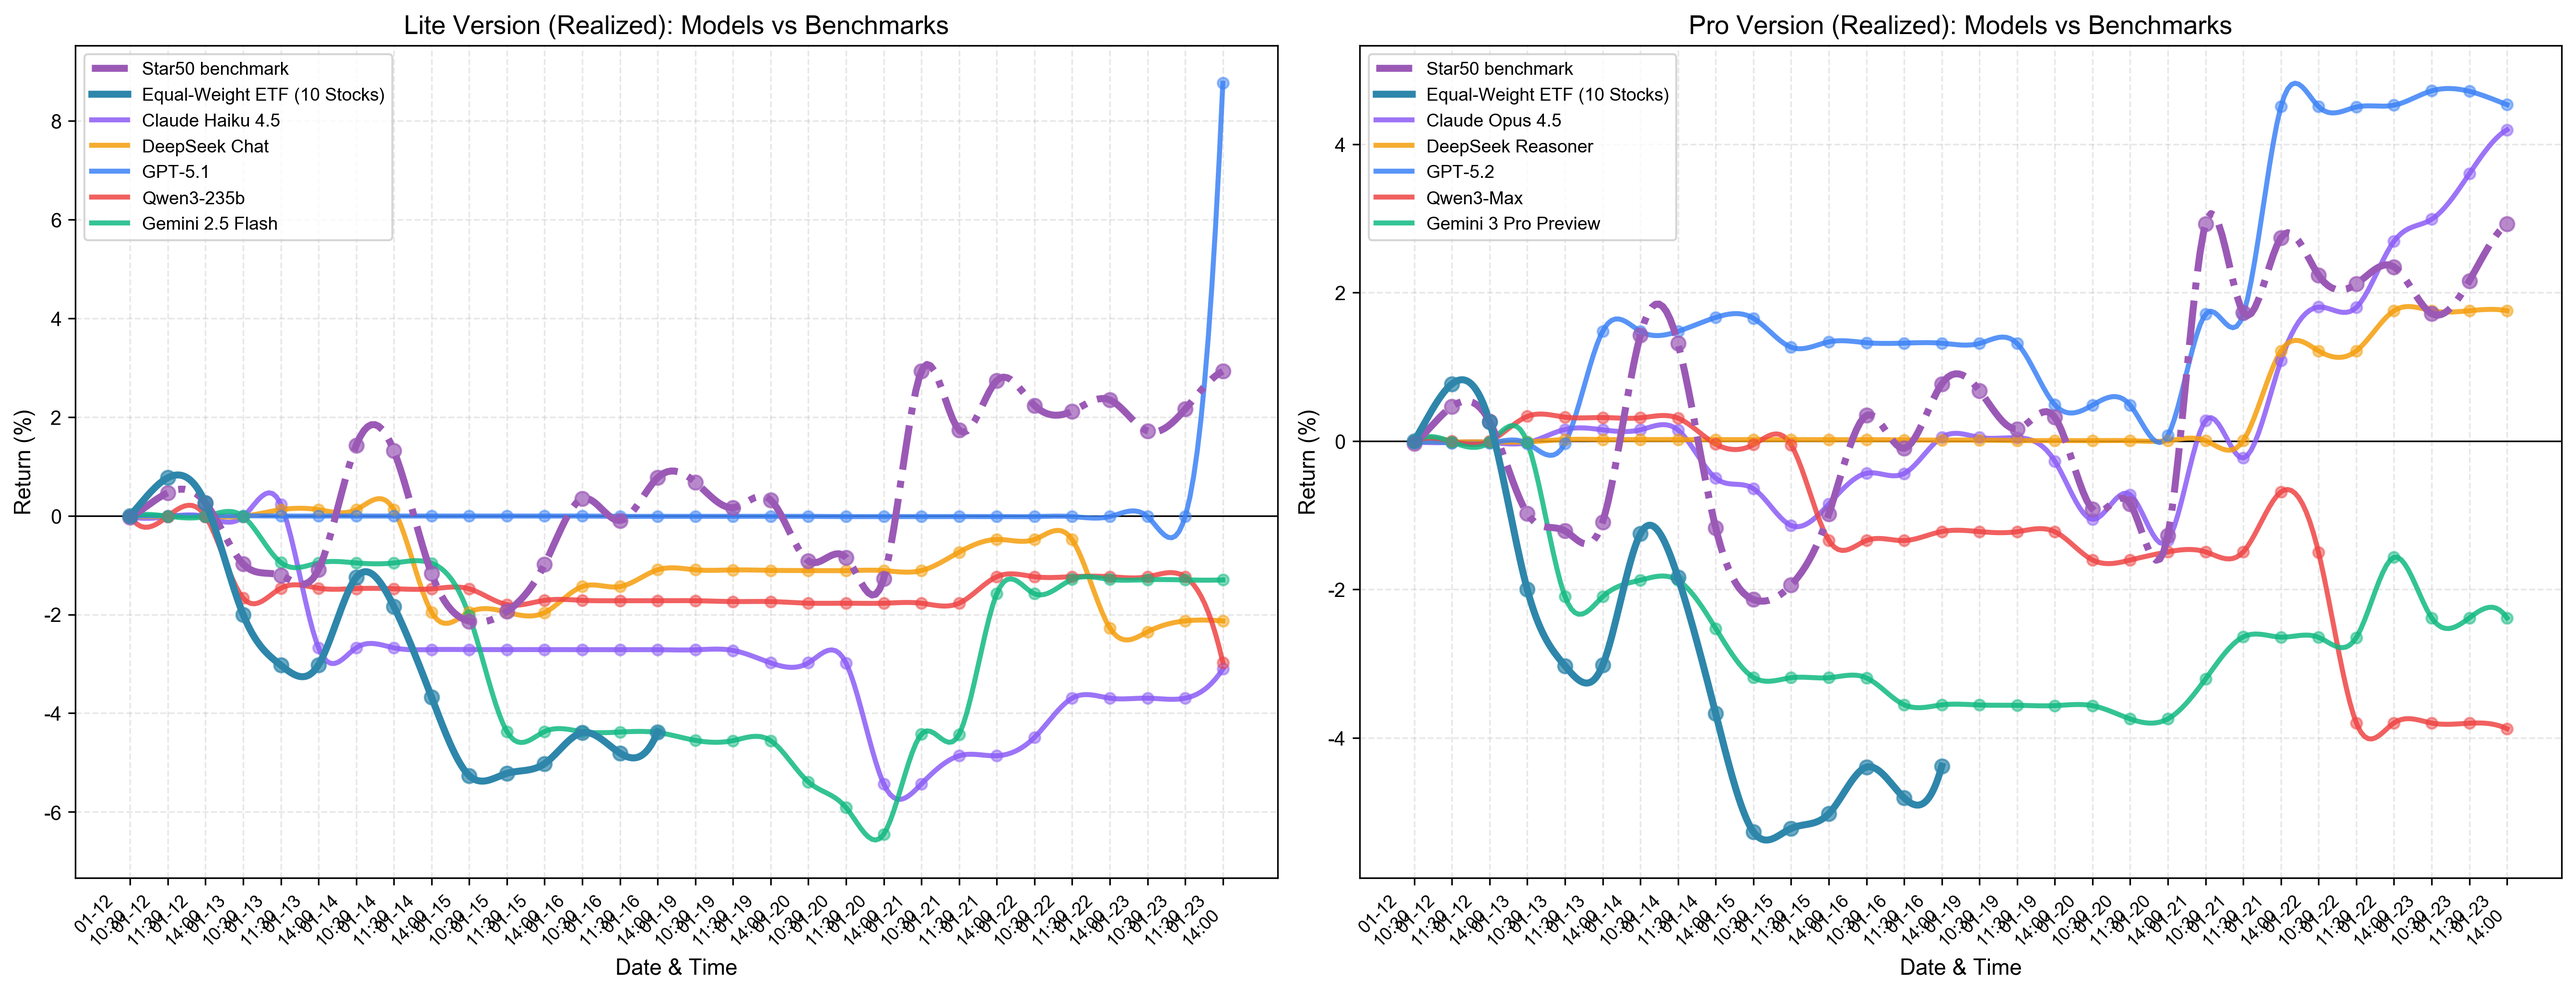
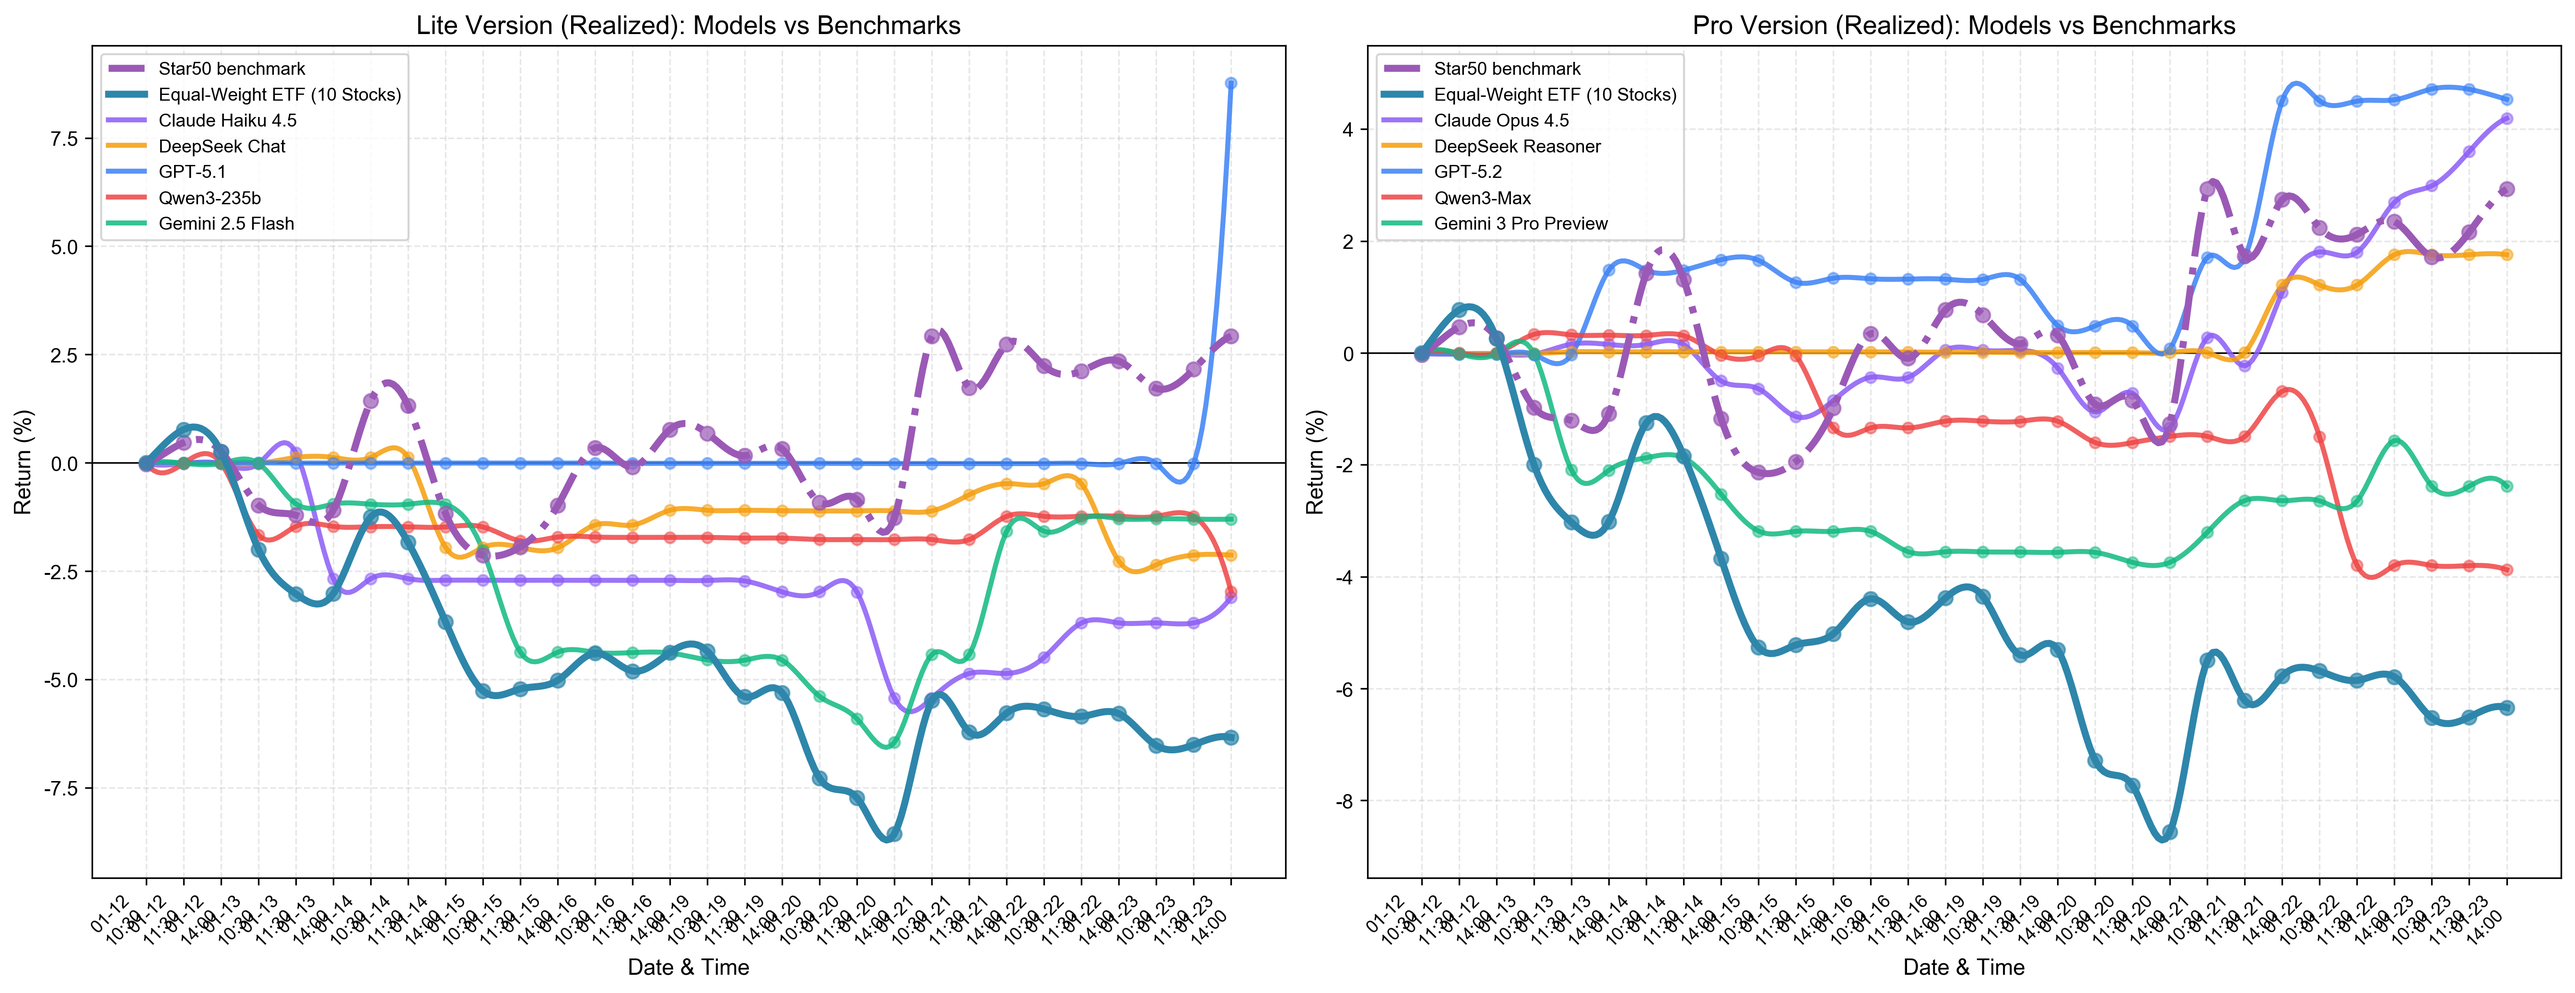
update visualize.py

diff --git a/experiments/visualize.py b/experiments/visualize.py
@@ -770,8 +770,8 @@ def plot_weekly_pnl(pnl_data: Dict[str, List[Tuple[datetime, float, float]]],
         x_indices = np.array(unique_indices)
         returns = np.array(unique_returns)
         
-        # 获取模型配置信息
-        model_info = model_dict.get(model_sig, model_dict.get(model_sig, MODELS.get(model_sig, {"color": "#999999", "label": model_sig})))
+        # 获取模型配置信息（优先使用传入的 model_dict，然后尝试 MODELS_LITE 和 MODELS_PRO）
+        model_info = model_dict.get(model_sig) or MODELS_LITE.get(model_sig) or MODELS_PRO.get(model_sig) or {"color": "#999999", "label": model_sig}
         
         # 使用样条插值创建平滑曲线
         if len(x_indices) > 3:  # 样条插值至少需要4个点
@@ -1178,7 +1178,7 @@ def fetch_star50_benchmark_series() -> List[Tuple[datetime, float]]:
         return []
 
 
-def plot_etf_vs_models(etf_data: Dict, unrealized_pnl_data: Dict, star50_series: List[Tuple[datetime, float]] = None):
+def plot_etf_vs_models(etf_data: Dict, unrealized_pnl_data: Dict, star50_series: List[Tuple[datetime, float]] = None, model_dict: Dict = None):
     """
     对比ETF、Star50 benchmark与各模型的表现（使用样条曲线，每天3个决策点）
     使用 Unrealized PnL（市场价格）来展现模型的实际投资收益，包含买入时机效果
@@ -1186,6 +1186,9 @@ def plot_etf_vs_models(etf_data: Dict, unrealized_pnl_data: Dict, star50_series:
     if not etf_data or not unrealized_pnl_data:
         print("⚠ Warning: Missing data for comparison chart")
         return
+    
+    if model_dict is None:
+        model_dict = MODELS
     
     return_series = etf_data.get('return_pct', [])
     if not return_series:
@@ -1277,7 +1280,8 @@ def plot_etf_vs_models(etf_data: Dict, unrealized_pnl_data: Dict, star50_series:
         model_x_indices = np.array(model_x_indices)
         model_returns = np.array(model_returns)
         
-        model_info = MODELS.get(model_sig, {})
+        # 尝试从 MODELS_LITE 和 MODELS_PRO 中查找模型信息
+        model_info = model_dict.get(model_sig) or MODELS_LITE.get(model_sig) or MODELS_PRO.get(model_sig) or {}
         label = model_info.get('label', model_sig)
         color = model_info.get('color', '#000000')
         
@@ -1681,7 +1685,10 @@ def main():
         plot_etf_performance(etf_data)
         
         print("📈 Generating ETF vs Models comparison chart (with Star50 benchmark)...")
-        plot_etf_vs_models(etf_data, unrealized_pnl_data, star50_series)
+        # 合并 lite 和 pro 的 unrealized 数据以显示所有模型
+        all_unrealized_pnl = {**lite_unrealized_pnl, **pro_unrealized_pnl}
+        all_models_dict = {**MODELS_LITE, **MODELS_PRO}
+        plot_etf_vs_models(etf_data, all_unrealized_pnl, star50_series, all_models_dict)
     
     print("📊 Generating stock attention charts (overall, Lite, Pro)...")
     attention_data_all = extract_stock_attention()
